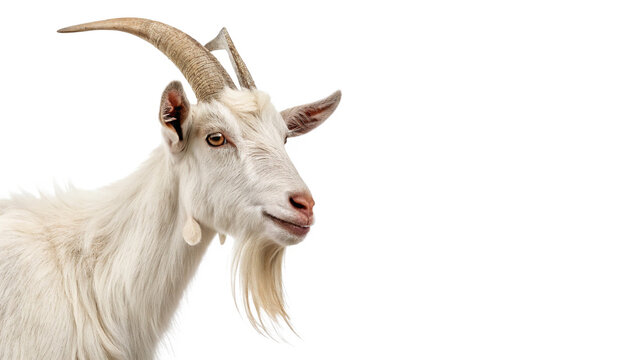
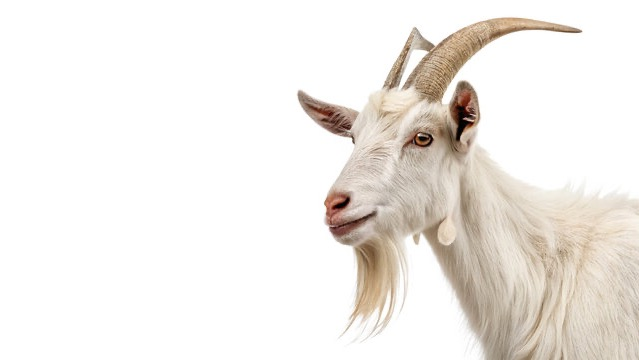
Added detaols page card function

diff --git a/src/app/animals/page.js b/src/app/animals/page.js
@@ -127,12 +127,14 @@ const AnimalsPage = () => {
               >
                 {/* Image Section */}
                 <div className="relative h-[300px] overflow-hidden">
-                  <Image
-                    src={animal.image}
-                    alt={animal.name}
-                    fill
-                    className="object-cover group-hover:scale-110 transition-transform duration-700"
-                  />
+                  <div className={`absolute inset-0 w-full h-full ${animal.id === 6 ? "-scale-x-100" : ""}`}>
+                    <Image
+                      src={animal.image}
+                      alt={animal.name}
+                      fill
+                      className="object-cover group-hover:scale-110 transition-transform duration-700"
+                    />
+                  </div>
                   {/* Category Badge */}
                   <div className="absolute top-6 left-6">
                     <span className="px-4 py-1.5 bg-[#253237]/90 backdrop-blur-md text-white text-[10px] font-bold uppercase tracking-widest rounded-full">

diff --git a/src/app/animals/[id]/page.js b/src/app/animals/[id]/page.js
@@ -112,7 +112,7 @@ const AnimalDetails = () => {
 
               {/* Badges on Image */}
               <div className="absolute top-8 left-8 flex flex-col gap-3">
-                <span className="px-5 py-2 bg-white/90 backdrop-blur-xl text-[#253237] text-[10px] font-black uppercase tracking-widest rounded-full shadow-xl">
+                <span className="px-5 py-2 bg-white/90 backdrop-blur-xl text-[#253237] text-[10px] font-black uppercase tracking-widest text-center rounded-full shadow-xl">
                   {animal.category}
                 </span>
                 <span className="px-5 py-2 bg-[#253237]/90 backdrop-blur-xl text-white text-[10px] font-black uppercase tracking-widest rounded-full shadow-xl flex items-center gap-2">

diff --git a/README.md b/README.md
@@ -1,36 +1,32 @@
-This is a [Next.js](https://nextjs.org) project bootstrapped with [`create-next-app`](https://github.com/vercel/next.js/tree/canary/packages/create-next-app).
+# QurbaniHat - Livestock Booking Platform
 
-## Getting Started
+## Project Purpose
+QurbaniHat is a premium digital platform designed to bridge the gap between buyers and verified livestock farmers across Bangladesh. Our goal is to provide a hassle-free, transparent, and secure experience for booking healthy Qurbani animals (cows, bulls, goats) for Eid-ul-Azha from the comfort of your home.
 
-First, run the development server:
+## Live URL
+[Insert Live URL Here]
 
-```bash
-npm run dev
-# or
-yarn dev
-# or
-pnpm dev
-# or
-bun dev
-```
+## ✨ Key Features
+- **User Authentication:** Secure Login and Registration system with Email/Password and Google Social Login.
+- **Premium Livestock Collection:** Browse, search, and sort a curated list of animals with high-quality images.
+- **Detailed Animal Profiles:** View comprehensive details including breed, weight, age, origin, and asking price.
+- **Secure Booking System:** Authenticated users can securely book their preferred animal with doorstep delivery options.
+- **Profile Management:** A dedicated user profile section to update display names and profile photos.
+- **Dynamic & Responsive UI:** Fully responsive design crafted with Tailwind CSS and DaisyUI, enhanced with smooth `animate.css` transitions.
 
-Open [http://localhost:3000](http://localhost:3000) with your browser to see the result.
+## NPM Packages Used
+This project leverages modern web technologies and the following key npm packages:
 
-You can start editing the page by modifying `app/page.js`. The page auto-updates as you edit the file.
-
-This project uses [`next/font`](https://nextjs.org/docs/app/building-your-application/optimizing/fonts) to automatically optimize and load [Geist](https://vercel.com/font), a new font family for Vercel.
-
-## Learn More
-
-To learn more about Next.js, take a look at the following resources:
-
-- [Next.js Documentation](https://nextjs.org/docs) - learn about Next.js features and API.
-- [Learn Next.js](https://nextjs.org/learn) - an interactive Next.js tutorial.
-
-You can check out [the Next.js GitHub repository](https://github.com/vercel/next.js) - your feedback and contributions are welcome!
-
-## Deploy on Vercel
-
-The easiest way to deploy your Next.js app is to use the [Vercel Platform](https://vercel.com/new?utm_medium=default-template&filter=next.js&utm_source=create-next-app&utm_campaign=create-next-app-readme) from the creators of Next.js.
-
-Check out our [Next.js deployment documentation](https://nextjs.org/docs/app/building-your-application/deploying) for more details.
+- **Framework & Core:**
+  - `next` (v16.2.4) - The React framework for the web.
+  - `react` & `react-dom` - Core libraries for building the UI.
+- **Authentication & Database:**
+  - `better-auth` - Comprehensive authentication solution.
+  - `@better-auth/mongo-adapter` & `mongodb` - Database integration for storing user sessions and credentials.
+- **Styling & UI:**
+  - `tailwindcss` - Utility-first CSS framework.
+  - `daisyui` - Tailwind CSS component library for rapid UI development.
+  - `lucide-react` - Beautiful and consistent iconography.
+- **User Experience (UX):**
+  - `animate.css` - For smooth, premium entry animations across the application.
+  - `react-toastify` - For elegant, non-blocking toast notifications (success/error alerts).
